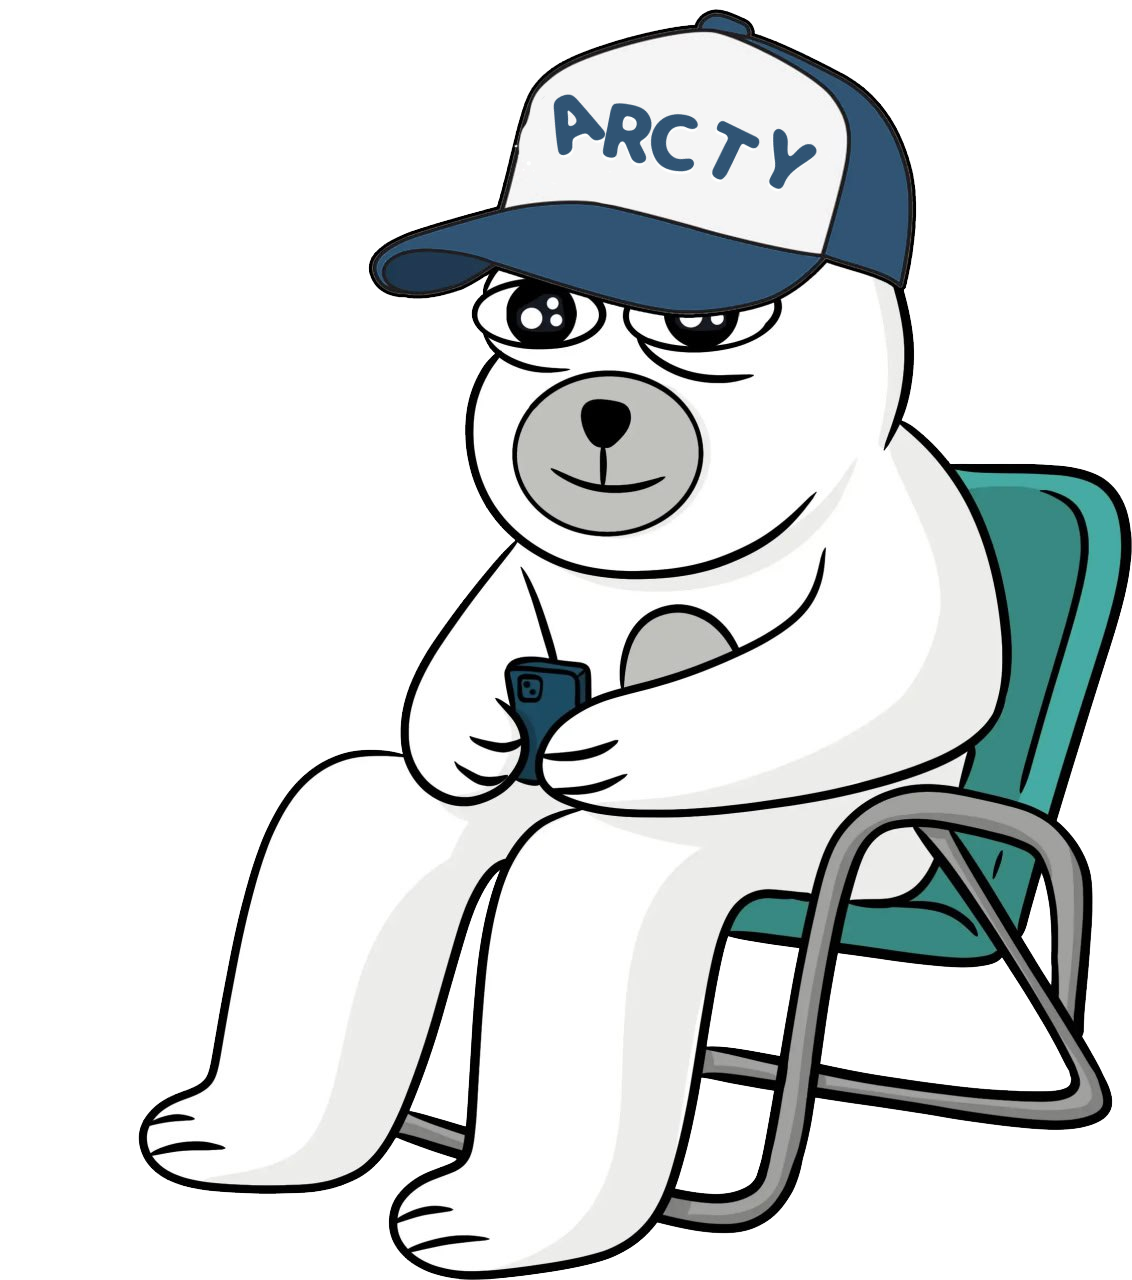
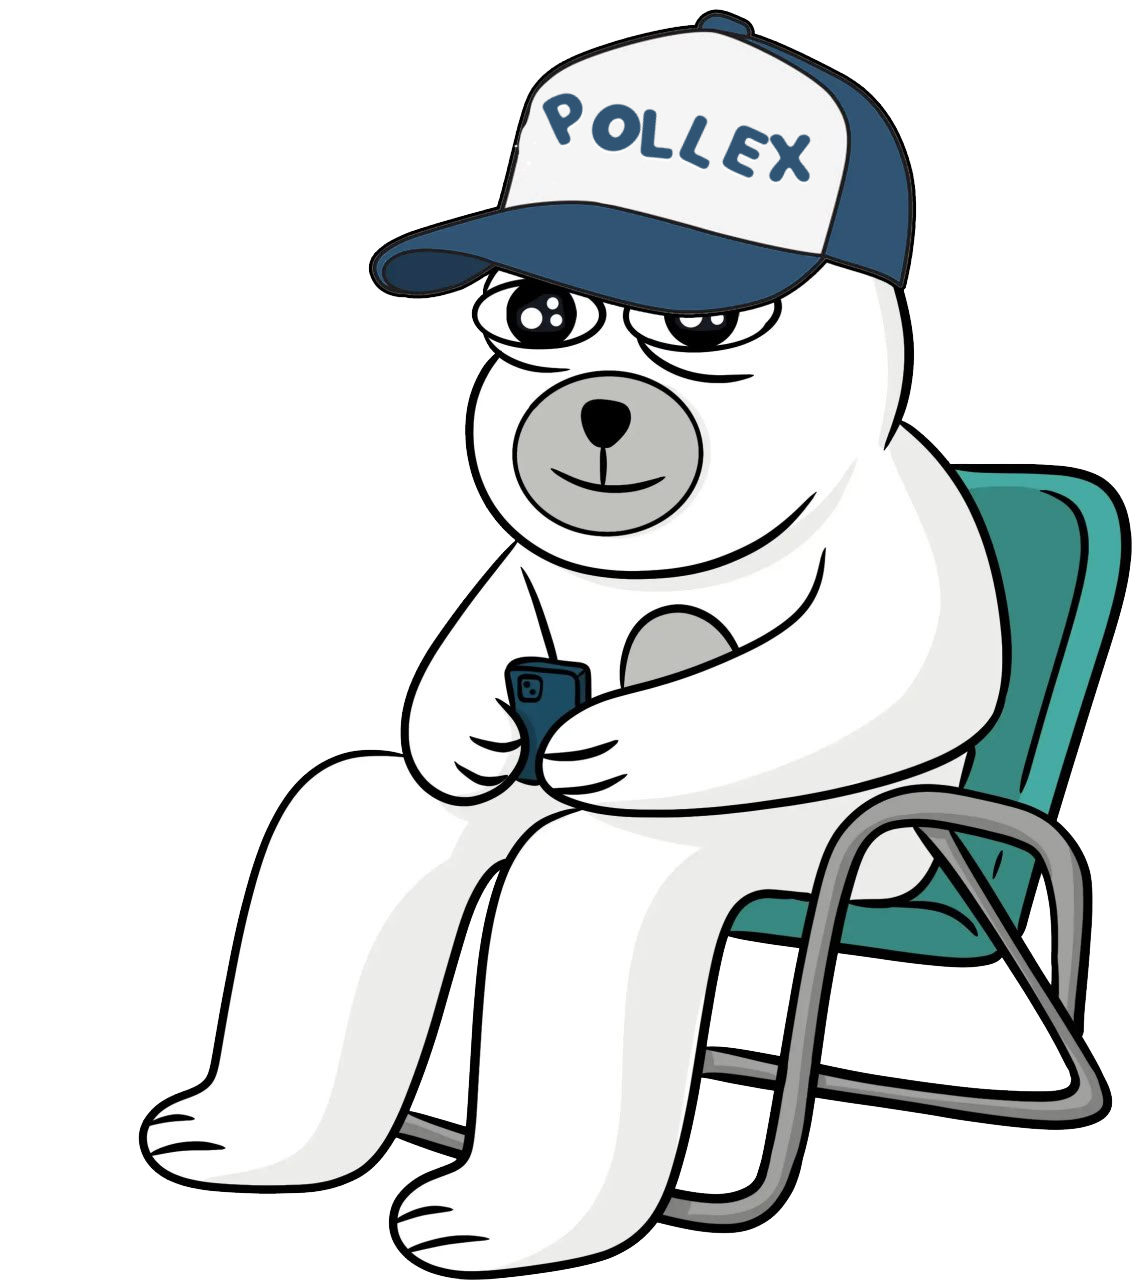
1

Changed region(s): [[0.4638, 0.0625, 0.742, 0.1562]]

diff --git a/index.html b/index.html
@@ -16,14 +16,14 @@
 		<meta name="distribution" content="global"> 
 		<meta name="robots" content="index,follow"> 
 		<meta name="country" content="US">
-		<meta name="description" content="ARCTY is the newest charismatic fluffy ruler of the frozen crypto tundra. This fun, decentralized, community-driven token is built on Solana Chain.">
+		<meta name="description" content="POLLEX is the newest charismatic fluffy ruler of the frozen crypto tundra. This fun, decentralized, community-driven token is built on Solana Chain.">
 		<meta name="google-site-verification" content="">
 		
 		<!-- Open Graph Meta Tags -->
 		<meta property="og:type" content="website">
 		<meta property="og:url" content="">
-		<meta property="og:title" content="ARCTY | The Official ARCTY Bear on Solanachain">
-		<meta property="og:description" content="ARCTY is the newest charismatic fluffy ruler of the frozen crypto tundra. This fun, decentralized, community-driven token is built on Solana Chain.">
+		<meta property="og:title" content="POLLEX | The Official POLLEX Bear on Solanachain">
+		<meta property="og:description" content="POLLEX is the newest charismatic fluffy ruler of the frozen crypto tundra. This fun, decentralized, community-driven token is built on Solana Chain.">
 
 		
 
@@ -37,7 +37,7 @@
 		<meta name="msapplication-TileColor" content="#9c2730">
 		<meta name="theme-color" content="#ffffff">
 		
-		<title>ARCTY | The Official Polar Bear on Solanachain</title>
+		<title>POLLEX | The Official Polar Bear on Solanachain</title>
 		<link href="assets/css/include.css" rel="stylesheet">
 		<!-- Google tag (gtag.js) -->
 		<script async src="https://www.googletagmanager.com/gtag/js?id=G-083C66RB80"></script>
@@ -63,17 +63,17 @@
 				<div class="container position-relative z-1">
 					<div class="hero w-100">
 						<h1 class="banner milky display-l lh-1 hstack align-items-center justify-content-center text-blue-4">
-							<span style="margin-right: 40px">A</span>
-							<span>R</span>
-							<span>C</span>
-							<span>T</span>
-							<span>Y </span>
-<!--							<span style="rotate: -10deg; margin-left:-20px; margin-right: 10px;">E</span>-->
+							<span style="margin-right: 40px">P</span>
+							<span>O</span>
+							<span>L</span>
+							<span>L</span>
+							<span>E</span>
+							<span style="rotate: -10deg; margin-left:40px; margin-right: 0px;">X</span>
 <!--							<span>R</span>-->
 
 						</h1>
 						<div class="vstack mx-auto col-12 col-xl-6 milky fs-3 text-center gap-1 lh-base text-blue-4">
-							<span>Hi I'm ARCTY</span>
+							<span>Hi I'm POLLEX</span>
 							<span>I'm the coldest, chillest, and funniest bear</span>
 							<span>in the entire SOLArctic. Welcome to my world.</span>
 						</div>
@@ -132,8 +132,8 @@
 				<div class="container py-5 position-relative">
 					<div class="d-flex flex-column col-12 col-lg-8 justify-content-center gap-4 text-center position-relative z-1 py-0 py-md-5 text-blue-4 milky">
 						<h2 class="display-3">A New King Has Risen</h2>
-						<p class="fs-5 lh-base">Meet ARCTY, the latest ruler of the icy domains of cryptocurrency, a royal polar bear who's more chilled than the arctic ice and cooler than the other side of the pillow. Born on the vast, frostbitten landscapes of the Solana Chain, this fluffy monarch has swiftly ascended to the throne, not through bloodshed or conquest, but with sheer charisma and an unshakable belief in the power of meme magic.</p>
-						<p class="fs-5 lh-base">This is not your average bear. ARCTY's reign is marked by his unorthodox approach to governance; he rules with a gentle paw and a heart as big as his appetite for salmon. In a world where seriousness often overshadows fun, ARCTY dares to ask, "Why not both?" He's democratizing the crypto kingdom one belly slide at a time, proving that you can indeed mix business with pleasure and that every bear can have his fish and eat it too.</p>
+						<p class="fs-5 lh-base">Meet POLLEX, the latest ruler of the icy domains of cryptocurrency, a royal polar bear who's more chilled than the arctic ice and cooler than the other side of the pillow. Born on the vast, frostbitten landscapes of the Solana Chain, this fluffy monarch has swiftly ascended to the throne, not through bloodshed or conquest, but with sheer charisma and an unshakable belief in the power of meme magic.</p>
+						<p class="fs-5 lh-base">This is not your average bear. POLLEX's reign is marked by his unorthodox approach to governance; he rules with a gentle paw and a heart as big as his appetite for salmon. In a world where seriousness often overshadows fun, POLLEX dares to ask, "Why not both?" He's democratizing the crypto kingdom one belly slide at a time, proving that you can indeed mix business with pleasure and that every bear can have his fish and eat it too.</p>
 					</div>
 				</div>
 				<div class="baby-pola"></div>
@@ -143,17 +143,17 @@
 					<div class="d-flex flex-column-reverse flex-md-row gap-4">
 						<div class="d-flex flex-column justify-content-center gap-4 col-12 col-md-6">
 							<div class="d-flex flex-column gap-1 text-blue-4">
-								<span class="fs-4 milky lh-base">ARCTY on Solanachain</span>
-								<h2 class="milky display-s lh-1 ">OFFICIAL ARCTY LINKS</h2>
+								<span class="fs-4 milky lh-base">POLLEX on Solanachain</span>
+								<h2 class="milky display-s lh-1 ">OFFICIAL POLLEX LINKS</h2>
 							</div>
 
 							<div class="d-flex flex-column gap-2">
 								<span class="fs-6 milky fw-bolder text-blue-4">Social &amp; Onchain Data</span>
 								<div class="socials hstack gap-3">
-									<a href="https://x.com/arctycoinsol" target="_blank">
+									<a href="https://x.com/pollexsol" target="_blank">
 										<div class="icon twitter rounded-circle"></div>
 									</a>
-									<a href="https://t.me/arctycoinsol" target="_blank">
+									<a href="https://t.me/pollexsol" target="_blank">
 										<div class="icon telegram rounded-circle"></div>
 									</a>
 									<a href="#" target="_blank">
@@ -168,7 +168,7 @@
 								<span class="fs-6 milky fw-bolder text-blue-4">Exchanges (MORE TBA)</span>
 								<div class="row row-cols-2 row-cols-lg-3 g-3">
 									<div class="col">
-										<a href="https://pump.fun/1UP516TBHDgMSXa4Uz7QzVZ8ud4HWUp3mWknBemRump" target="_blank" class="h-100 btn btn-md btn-light rounded-pill w-100 py-2 px-3">
+										<a href="https://pump.fun/z29D3SVn8GBBfxeS8WnBck5vqF2F5tRZzM1VAVzPump" target="_blank" class="h-100 btn btn-md btn-light rounded-pill w-100 py-2 px-3">
 											<img src="assets/logos/pumpfun.svg" class="w-75 mt-1" alt="uniswap link">
 										</a>
 									</div>
@@ -191,10 +191,10 @@
 							</div-->
 						</div>
 						<div class="col-12 col-md-4 pola-in-phone">
-							<a class="polarmy-buble polarmy-link" href="https://t.me/arctycoinsol"><img src="assets/images/pola-phone-bubble-r.png" class="w-100 " alt="click to join polarmy"></a>
-							<a href="https://t.me/arctycoinsol"><img src="assets/images/pola-phone-r.png" class="w-100 " alt="pola having fun on tg"></a>
-							<a class="polarmy-buble polarmy-link" href="https://t.me/arctycoinsol"><img src="assets/images/pola-phone-bubble-l.png" class="w-100 " alt="click to join polarmy"></a>
-							<a  href="https://t.me/arctycoinsol"><img src="assets/images/pola-phone-l.png" class="w-100 " alt="pola having fun on tg"></a>
+							<a class="polarmy-buble polarmy-link" href="https://t.me/pollexsol"><img src="assets/images/pola-phone-bubble-r.png" class="w-100 " alt="click to join polarmy"></a>
+							<a href="https://t.me/pollexsol"><img src="assets/images/pola-phone-r.png" class="w-100 " alt="pola having fun on tg"></a>
+							<a class="polarmy-buble polarmy-link" href="https://t.me/pollexsol"><img src="assets/images/pola-phone-bubble-l.png" class="w-100 " alt="click to join polarmy"></a>
+							<a  href="https://t.me/pollexsol"><img src="assets/images/pola-phone-l.png" class="w-100 " alt="pola having fun on tg"></a>
 						</div>
 					</div>
 					
@@ -220,17 +220,17 @@
 			<section id="tokenomics" class="position-relative bg-blue-4 py-5 snow-cap">
 				<div class="container py-5 position-relative">
 					<div class="vstack gap-4 text-center mb-5 col-12 col-xl-6 mx-auto text-white milky">
-						<h2 class="display-1 shouxietongzhen gradient-txt-1">ARCTYnomics</h2>
-						<p class="fs-5 lh-base">Adhering to the ethos of decentralization, $ARCTY adopted a strategy to ensure genuine community ownership and nurture growth with steadfast support from the community.</p>
+						<h2 class="display-1 shouxietongzhen gradient-txt-1">POLLEXnomics</h2>
+						<p class="fs-5 lh-base">Adhering to the ethos of decentralization, $POLLEX adopted a strategy to ensure genuine community ownership and nurture growth with steadfast support from the community.</p>
 					</div>
 
 					<div class="d-flex flex-column flex-xl-row disclaimer rounded-4 p-3 border border-4 border-blue-1 shadow gap-3 col-12 col-xl-8 mx-auto mb-4 bg-white milky text-blue-4">
-						<a href="https://pump.fun/1UP516TBHDgMSXa4Uz7QzVZ8ud4HWUp3mWknBemRump"><button class="btn btn-lg btn-light px-3">
-							<span class="fw-bold fs-6 text-blue-4">Buy $ARCTY</span>
+						<a href="https://pump.fun/z29D3SVn8GBBfxeS8WnBck5vqF2F5tRZzM1VAVzPump"><button class="btn btn-lg btn-light px-3">
+							<span class="fw-bold fs-6 text-blue-4">Buy $POLLEX</span>
 						</button></a>
 						<div class="col-12 col-xl-10 hstack gap-3 justify-content-between rounded-3 border p-1 fs-6">
-							<span class="text-truncate fw-bold ms-3 contact">Contract address: 1UP516TBHDgMSXa4Uz7QzVZ8ud4HWUp3mWknBemRump</span>
-							<button class="btn btn-md btn-light copy" data-text="1UP516TBHDgMSXa4Uz7QzVZ8ud4HWUp3mWknBemRump">
+							<span class="text-truncate fw-bold ms-3 contact">Contract address: z29D3SVn8GBBfxeS8WnBck5vqF2F5tRZzM1VAVzPump</span>
+							<button class="btn btn-md btn-light copy" data-text="z29D3SVn8GBBfxeS8WnBck5vqF2F5tRZzM1VAVzPump">
 								<i class="bi bi-clipboard"></i>
 							</button>
 						</div>
@@ -303,7 +303,7 @@
 									<img src="assets/images/icons/base.svg" class="w-100" alt="base logo">
 								</div>
 								<h3 class="fw-bolder fs-1 milky text-uppercase lh-1">Secure Solana (BASE ETH)</h3>
-								<p class="fs-6 lh-base milky">Purchase Solanachain Ethereum (BASE), the foundational currency required for transactions on the base network where $ARCTY operates. BASE ETH acts as the "gas" for transactions, including buying $ARCTY.</p>
+								<p class="fs-6 lh-base milky">Purchase Solanachain Ethereum (BASE), the foundational currency required for transactions on the base network where $POLLEX operates. BASE ETH acts as the "gas" for transactions, including buying $POLLEX.</p>
 							</div>
 						</div>
 						<div class="col">
@@ -311,8 +311,8 @@
 								<div class="col-4 col-md-2">
 									<img src="assets/images/pola-5.webp" class="w-100" alt="buy pola">
 								</div>
-								<h3 class="fw-bolder fs-1 milky text-uppercase lh-1">Buy $ARCTY</h3>
-								<p class="fs-6 lh-base milky">Use your newly acquired BASE ETH to purchase $ARCTY tokens through a cryptocurrency exchange or decentralized exchange platform that lists $ARCTY.</p>
+								<h3 class="fw-bolder fs-1 milky text-uppercase lh-1">Buy $POLLEX</h3>
+								<p class="fs-6 lh-base milky">Use your newly acquired BASE ETH to purchase $POLLEX tokens through a cryptocurrency exchange or decentralized exchange platform that lists $POLLEX.</p>
 							</div>
 						</div>
 						<div class="col">
@@ -321,7 +321,7 @@
 									<img src="assets/images/icons/crypto-wallet.svg" class="w-100" alt="wallet logo">
 								</div>
 								<h3 class="fw-bolder fs-1 milky text-uppercase lh-1">Add To Your Wallet</h3>
-								<p class="fs-6 lh-base milky">Import $ARCTY tokens into your MetaMask wallet by adding the pola token's contract address. This allows you to view and manage your $ARCTY holdings directly within MetaMask.</p>
+								<p class="fs-6 lh-base milky">Import $POLLEX tokens into your MetaMask wallet by adding the pola token's contract address. This allows you to view and manage your $POLLEX holdings directly within MetaMask.</p>
 							</div>
 						</div>
 					</div>
@@ -339,8 +339,8 @@
 					
 						<img src="assets/images/VPN-Logo.svg" class="vpn-logo" alt="pola vpn logo">
 						
-						<h2 class="text-nowrap milky display-s lh-1">ARCTY VPN</h2>
-						<span class="text-center fs-6 lh-base milky">ARCTYVPN is the very first memecoin to have this feature. it is your gateway to a secure and unrestricted online experience, designed with your privacy in mind. Whether you're browsing, streaming, or working remotely, ARCTYVPN ensures your data stays protected and your connections remain anonymous.</span>
+						<h2 class="text-nowrap milky display-s lh-1">POLLEX VPN</h2>
+						<span class="text-center fs-6 lh-base milky">POLLEXVPN is the very first memecoin to have this feature. it is your gateway to a secure and unrestricted online experience, designed with your privacy in mind. Whether you're browsing, streaming, or working remotely, POLLEXVPN ensures your data stays protected and your connections remain anonymous.</span>
 						<div class="vpn-button-container" >
 							<button type="button" id="openISOApp" class="vpn-button border btn btn-light rounded-pill milky py-4 p-5 hstack gap-3 justify-content-center w-48">
 								<span class="fw-bolder fs-4">Android App soon</span>
@@ -397,10 +397,10 @@
 								<img src="assets/images/nfts/10.webp" alt="pola nft">
 							</div>
 						</div>
-						<h2 class="display-s lh-1 milky text-blue-4">ARCTY NFT</h2>
+						<h2 class="display-s lh-1 milky text-blue-4">POLLEX NFT</h2>
 						<div class="vstack gap-3 fs-6 fw-normal lh-base text-dark text-opacity-75">
-							<p>Explore ARCTY NFT, an enchanting collection of 5,000 NFTs, released on Solana drawing inspiration from a cherished polar bear, these NFTs capture the essence and spirit of a unique polar bear-inspired theme.</p>
-							<p>Owning a ARCTY NFT connects you to the dynamic community surrounding this theme, signifying your appreciation and embrace of the unique culture these digital assets symbolize.</p>
+							<p>Explore POLLEX NFT, an enchanting collection of 5,000 NFTs, released on Solana drawing inspiration from a cherished polar bear, these NFTs capture the essence and spirit of a unique polar bear-inspired theme.</p>
+							<p>Owning a POLLEX NFT connects you to the dynamic community surrounding this theme, signifying your appreciation and embrace of the unique culture these digital assets symbolize.</p>
 						</div>
 						<div>
 							<span class="fw-bold fw-bold py-2 rounded-pill">Collection Coming Soon</span>
@@ -417,14 +417,14 @@
 							<div class="d-flex flex-column gap-1 text-blue-4">
 								<span class="fs-4 milky">Ice Cream Products</span>
 								<div class="hstack">
-									<h2 id="data-title" class="text-nowrap milky display-s lh-1">ARCTYPops</h2>
+									<h2 id="data-title" class="text-nowrap milky display-s lh-1">POLLEXPops</h2>
 									<span class="fs-2 fw-bold lh-1">ⓒ</span>
 								</div>
-								<span id="data-description" class="fs-6 lh-base milky">ARCTY Pops brings a refreshing twist to your favorite frozen treat! Our ice creams are handcrafted with natural ingredients, offering a burst of flavors that are as unique as they are delicious. From the classic creamy delights to exotic fruit-filled wonders, each ARCTY Pop is designed to provide a blissful escape into a world of sweet, frosty pleasure.</span>
+								<span id="data-description" class="fs-6 lh-base milky">POLLEX Pops brings a refreshing twist to your favorite frozen treat! Our ice creams are handcrafted with natural ingredients, offering a burst of flavors that are as unique as they are delicious. From the classic creamy delights to exotic fruit-filled wonders, each POLLEX Pop is designed to provide a blissful escape into a world of sweet, frosty pleasure.</span>
 							</div>
 
 							<div class="d-flex flex-column gap-4">
-								<span class="fs-3 milky text-blue-4">ARCTYPops Flavors</span>
+								<span class="fs-3 milky text-blue-4">POLLEXPops Flavors</span>
 								<div class="row row-cols-3 row-cols-md-5 g-3 ice-creams">
 																		<div data-id="1" class="col data-source">
 										<a role="button" data-image="assets/flavors/1.webp" class="vstack h-100 rounded-4 p-3 gap-3 text-center">
@@ -493,7 +493,7 @@
 								<span class="fw-bold fs-6">Legal Disclaimer</span>
 								<i class="bi bi-arrow-down-circle-fill"></i>
 							</a>
-							<p id="legal" class="p-3 fs-7 lh-base d-none text-white">The content on the ARCTY Token website is not meant to be understood as investment, financial, trading, or any form of advice, and should not be interpreted as such. ARCTY Token does not suggest that any should be bought, sold, or held by you. It is important to perform your own thorough research and consult with your financial advisor prior to making any investment decisions. By acquiring ARCTY Token, you acknowledge that you are not obtaining a security or investment and you agree to absolve ARCTY Token of any responsibility for any losses or taxes you may face. Additionally, you accept that ARCTY Token is offered "as is" without any obligation for support or services. Expectations from ARCTY Token should be none. Although ARCTY Token is designed for social networking and is not a registered digital currency, it is highly advised that individuals in locations where is banned by the government refrain from purchasing it, as ARCTY Token cannot guarantee adherence to the legal requirements of your region. Always ensure your actions are in full compliance with local laws and regulations before making any purchases.</p>
+							<p id="legal" class="p-3 fs-7 lh-base d-none text-white">The content on the POLLEX Token website is not meant to be understood as investment, financial, trading, or any form of advice, and should not be interpreted as such. POLLEX Token does not suggest that any should be bought, sold, or held by you. It is important to perform your own thorough research and consult with your financial advisor prior to making any investment decisions. By acquiring POLLEX Token, you acknowledge that you are not obtaining a security or investment and you agree to absolve POLLEX Token of any responsibility for any losses or taxes you may face. Additionally, you accept that POLLEX Token is offered "as is" without any obligation for support or services. Expectations from POLLEX Token should be none. Although POLLEX Token is designed for social networking and is not a registered digital currency, it is highly advised that individuals in locations where is banned by the government refrain from purchasing it, as POLLEX Token cannot guarantee adherence to the legal requirements of your region. Always ensure your actions are in full compliance with local laws and regulations before making any purchases.</p>
 						</div>
 
 						<div class="vstack disclaimer rounded-4 shadow-sm">
@@ -506,11 +506,11 @@
 
 						<div class="d-flex flex-column flex-xl-row disclaimer rounded-4 p-3 shadow gap-3">
 							<button class="btn btn-lg btn-light px-3">
-								<a class="fw-bold fs-6 text-nowrap text-black" href="https://pump.fun/1UP516TBHDgMSXa4Uz7QzVZ8ud4HWUp3mWknBemRump" target="_blank">Buy $ARCTY</a>
+								<a class="fw-bold fs-6 text-nowrap text-black" href="https://pump.fun/z29D3SVn8GBBfxeS8WnBck5vqF2F5tRZzM1VAVzPump" target="_blank">Buy $POLLEX</a>
 							</button>
 							<div class="col-12 col-xl-10 text-white hstack gap-3 justify-content-between rounded-3 border p-1 fs-6">
-								<span class="text-truncate fw-bold ms-3 contact">Contract address: 1UP516TBHDgMSXa4Uz7QzVZ8ud4HWUp3mWknBemRump</span>
-								<button class="btn btn-md btn-light copy" data-text="1UP516TBHDgMSXa4Uz7QzVZ8ud4HWUp3mWknBemRump">
+								<span class="text-truncate fw-bold ms-3 contact">Contract address: z29D3SVn8GBBfxeS8WnBck5vqF2F5tRZzM1VAVzPump</span>
+								<button class="btn btn-md btn-light copy" data-text="z29D3SVn8GBBfxeS8WnBck5vqF2F5tRZzM1VAVzPump">
 									<i class="bi bi-clipboard"></i>
 								</button>
 							</div>
@@ -520,10 +520,10 @@
 							<div class="col-12 col-md-4">
 								<div class="vstack gap-3">
 									<img src="assets/logos/pola.svg" class="col-8" alt="pola logo">
-									<small class="d-block mb-3">Collect, create, and engage with ARCTY!</small>
+									<small class="d-block mb-3">Collect, create, and engage with POLLEX!</small>
 									<div class="hstack gap-4">
-										<a href="https://x.com/arctycoinsol" target="_blank" class="fs-4"><i class="bi bi-twitter"></i></a>
-										<a href="https://t.me/arctycoinsol" target="_blank" class="fs-4"><i class="bi bi-telegram"></i></a>
+										<a href="https://x.com/pollexsol" target="_blank" class="fs-4"><i class="bi bi-twitter"></i></a>
+										<a href="https://t.me/pollexsol" target="_blank" class="fs-4"><i class="bi bi-telegram"></i></a>
 									</div>
 								</div>
 							</div>
@@ -537,13 +537,13 @@
 		<div class="menu text-nowrap rounded-pill position-fixed bottom-0 z-3 bg-white border border-4 shadow d-none d-lg-block">
 			<div class="menu-list hstack gap-1">
 								<a href="#home" class="d-none d-md-block btn rounded-pill active.">Home</a>
-								<a href="#about" class="d-none d-md-block btn rounded-pill">About ARCTY</a>
+								<a href="#about" class="d-none d-md-block btn rounded-pill">About POLLEX</a>
 								<a href="#links" class="d-none d-md-block btn rounded-pill">Ecosystem</a>
 								<a href="#tokenomics" class="d-none d-md-block btn rounded-pill">Tokenomics</a>
 
 								<a href="#vpn" class="d-none d-md-block btn rounded-pill">VPN</a>
 								<a href="#nft" class="d-none d-md-block btn rounded-pill">NFT</a>
-								<a href="#popsicles" class="d-none d-md-block btn rounded-pill">ARCTYPops</a>
+								<a href="#popsicles" class="d-none d-md-block btn rounded-pill">POLLEXPops</a>
 								<a href="#" class="d-block d-md-none hamburger-menu">
 					<div></div>
 					<div></div>
